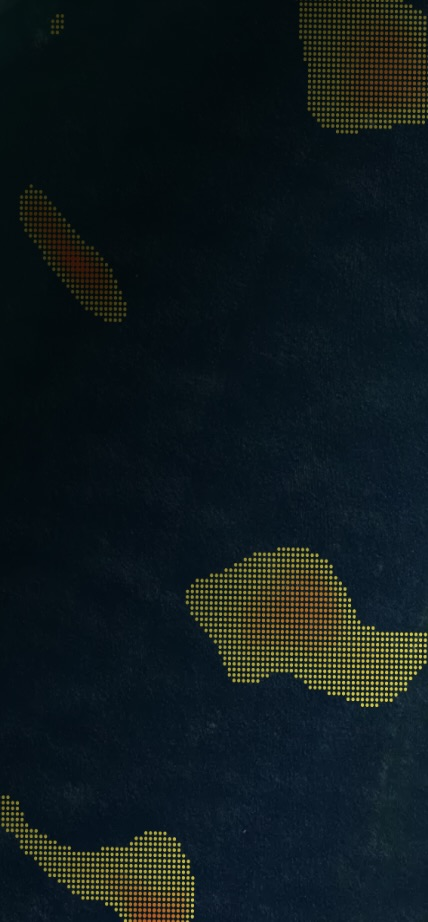
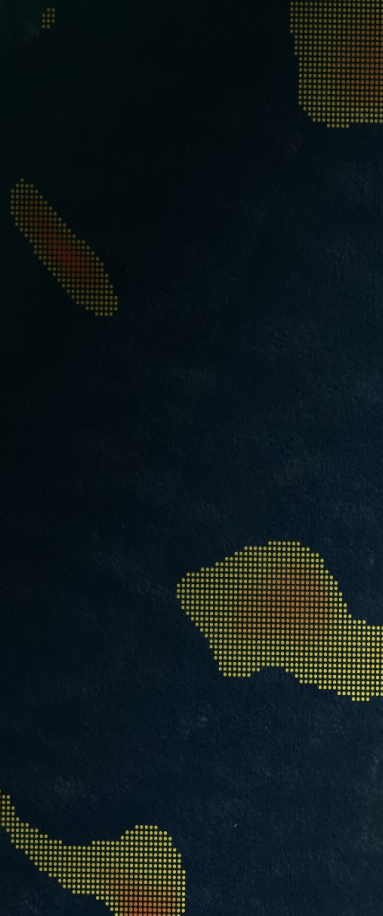
mobile styling

diff --git a/src/lib/sections/Prototype.svelte b/src/lib/sections/Prototype.svelte
@@ -16,28 +16,26 @@
 </script>
 
 {#if !isSmScreen}
-	<div class="bg-white w-full h-screen relative">
-		<div class="absolute w-1/3 top-40 right-20">
-			<h1 class="text-white text-3xl sm:text-3xl sm:mt-20" style="font-weight: 500">
-				OCEAN ECO WATCH PROTOTYPE
-			</h1>
-			<p class="text-white mt-10">
-				We've built a small prototype to detect marine debris on the coast of Durban located in
-				South Africa where a flood event on the 18th of April in 2019 washed out a lot of plastic.
-				We are using data from the sentinel-2 satellite taken six days post-event. Our prototype
-				highlights potential locations of floating plastic. Each point on the map corresponds to the
-				probability of present marine debris and represents an area spanning 10x10 m².
-			</p>
+	<div class="bg-white w-full h-full relative">
+		<div class="absolute w-1/2 top-40 right-0 mr-10 absolute top-1/2 transform -translate-y-1/2">
+			<div class="w-3/4">
+				<h1 class="text-white text-3xl sm:text-3xl sm:mt-20" style="font-weight: 500">OCEAN ECO WATCH PROTOTYPE</h1>
+				<p class="text-white mt-10">
+					We've built a small prototype to detect marine debris on the coast of Durban located in South Africa where a
+					flood event on the 18th of April in 2019 washed out a lot of plastic. We are using data from the sentinel-2
+					satellite taken six days post-event. Our prototype highlights potential locations of floating plastic. Each
+					point on the map corresponds to the probability of present marine debris and represents an area spanning 10x10
+					m².
+				</p>
 
-			<button
-				class="btn btn-xl bg-white mt-20"
-				on:click={() => goto('/map')}
-				on:keypress={() => goto('/map')}><h1>VIEW PROTORYPE</h1></button
-			>
+				<button class="btn btn-xl bg-white mt-20" on:click={() => goto('/map')} on:keypress={() => goto('/map')}
+					><h1 class="font-bold">VIEW PROTORYPE</h1></button
+				>
+			</div>
 		</div>
 		<img
 			src={prototypeHorizontal}
-			class="object-cover object-left w-full h-full"
+			class="max-h-48 max-h-[1000px] object-cover object-left object-bottom w-full h-full"
 			alt="screenshot of our prototype"
 		/>
 	</div>
@@ -46,21 +44,17 @@
 {#if isSmScreen}
 	<div class="h-screen w-full relative">
 		<div class="absolute top-0 left-0 z-50 px-5 pt-32">
-			<h1 class="text-white text-3xl text-center" style="font-weight: 500">
-				OCEAN ECO WATCH PROTOTYPE
-			</h1>
+			<h1 class="text-white text-3xl text-center" style="font-weight: 500">OCEAN ECO WATCH PROTOTYPE</h1>
 			<p class="text-white mt-10 text-center">
-				We've built a small prototype to detect marine debris on the coast of Durban located in
-				South Africa where a flood event on the 18th of April in 2019 washed out a lot of plastic.
-				We are using data from the sentinel-2 satellite taken six days post-event. Our prototype
-				highlights potential locations of floating plastic. Each point on the map corresponds to the
-				probability of present marine debris and represents an area spanning 10x10 m².
+				We've built a small prototype to detect marine debris on the coast of Durban located in South Africa where a
+				flood event on the 18th of April in 2019 washed out a lot of plastic. We are using data from the sentinel-2
+				satellite taken six days post-event. Our prototype highlights potential locations of floating plastic. Each
+				point on the map corresponds to the probability of present marine debris and represents an area spanning 10x10
+				m².
 			</p>
-			<div class="w-full flex flex-col items-center mt-20">
-				<button
-					class="btn btn-xl bg-white mt-20"
-					on:click={() => goto('/map')}
-					on:keypress={() => goto('/map')}><h1>VIEW PROTORYPE</h1></button
+			<div class="w-full flex flex-col items-center mt-10">
+				<button class="btn btn-xl bg-white" on:click={() => goto('/map')} on:keypress={() => goto('/map')}
+					><h1>VIEW PROTORYPE</h1></button
 				>
 			</div>
 		</div>
@@ -68,7 +62,7 @@
 		<img
 			src={prototypeVertical}
 			alt="screenshot of our prototype"
-			class="absolute object-cover w-full h-full z-0"
+			class="absolute object-cover w-full h-full z-0 brightness-50"
 		/>
 	</div>
 {/if}

diff --git a/src/lib/sections/Technology.svelte b/src/lib/sections/Technology.svelte
@@ -2,42 +2,35 @@
 	import graph from '$assets/images/graph.png';
 </script>
 
-<div
-	class="w-full h-screen sm:h-full bg-primary-500 flex sm:flex-col sm:px-5 sm:pt-20 pt-40 pb-40 pl-20 pr-20"
->
+<div class="w-full h-screen sm:h-full bg-primary-500 flex sm:flex-col sm:px-5 pt-40 sm:pt-320 pb-40 pl-20 pr-20">
 	<div class="flex flex-col w-2/5 sm:w-full h-full">
-		<h1 class="font-bold text-white text-3xl mb-10">HOW THE DETECTION WORKS</h1>
+		<h1 class="font-bold text-white text-3xl mb-10 sm:text-center">HOW THE DETECTION WORKS</h1>
 
-		<p class="text-white">
-			We primarily leverage Sentinel-2 imagery, accessible through SentinelHub, as our core data
-			source. This resource offers a remarkable spectral resolution, spanning 13 distinct bandwidths
-			from visible to infrared. Our approach is grounded in the latest open-source scientific
-			publications, which have shared their findings through open-source models. Within these
-			models, neural networks, notably the Unet++ model, excel at discerning the unique reflection
+		<p class="text-white sm:text-center">
+			We primarily leverage Sentinel-2 imagery, accessible through SentinelHub, as our core data source. This resource
+			offers a remarkable spectral resolution, spanning 13 distinct bandwidths from visible to infrared. Our approach is
+			grounded in the latest open-source scientific publications, which have shared their findings through open-source
+			models. Within these models, neural networks, notably the Unet++ model, excel at discerning the unique reflection
 			and absorption patterns of plastic and marine debris in contrast to water.
 		</p>
 	</div>
 	<div>
 		<div class="ml-40 sm:ml-0 sm:mt-20">
-			<img
-				src={graph}
-				alt="statistic that shows the increase of plastic in our oceans by year and weight"
-			/>
+			<img src={graph} alt="statistic that shows the increase of plastic in our oceans by year and weight" />
 			<div class="mt-5">
-				<div class="flex space-x-3 sm:mt-5">
-					<p class="text-white">Source:</p>
+				<p class="text-white sm:text-small">
+					Variations in remote sensing reflectance across different materials at various wavelengths.
+				</p>
+				<div class="flex space-x-3 sm:mt-3">
+					<p class="text-white sm:text-small">Source:</p>
 					<a
-						class="anchor text-white"
+						class="anchor text-white sm:text-small"
 						tabindex="0"
 						href="https://www.nature.com/articles/s41598-020-62298-z"
 					>
 						Finding Plastic Patches in Coastal Waters using Optical Satellite Data
 					</a>
 				</div>
-				<p class="text-white sm:mt-10">
-					Variations in remote sensing reflectance across different materials at various
-					wavelengths.
-				</p>
 			</div>
 		</div>
 	</div>

diff --git a/src/lib/sections/Problem.svelte b/src/lib/sections/Problem.svelte
@@ -4,24 +4,24 @@
 	</div>
 	<div class="w-4/5 flex md:flex-col sm:flex-col sm:space-y-20 md:space-y-10 justify-between mt-28 lg:pt-10">
 		<div class="w-1/4 sm:w-full md:w-full sm:pb-5">
-			<p class="text-white text-lg-p text-center">
-				<span class="text-tertiary-500 font-bold text-5xl">In 2050</span>
+			<p class="text-white text-center">
+				<span class="text-tertiary-500 font-bold text-5xl sm:text-4xl">In 2050</span>
 				<br class="mb-5" />
 				our oceans could hold more plastic than fish by weight
 			</p>
 		</div>
 
 		<div class="w-1/4 sm:w-full md:w-full">
-			<p class="text-white text-lg-p text-center sm:pb-5">
-				<span class="text-tertiary-500 font-bold text-5xl">450 years</span><br class="mb-5" />it takes to break down a
-				plastic bottle into microplastic particles.
+			<p class="text-white text-center sm:pb-5">
+				<span class="text-tertiary-500 font-bold sm:text-4xl">450 years</span><br class="mb-5" />it takes to break down
+				a plastic bottle into microplastic particles.
 			</p>
 		</div>
 
 		<div class="w-1/4 sm:w-full md:w-full">
-			<p class="text-white text-lg-p text-center sm:pb-5">
-				<span class="text-tertiary-500 font-bold text-5xl">$13 billion</span><br class="mb-5" />are the cost of annual
-				damage to the marine ecosystems caused by plastic pollution.
+			<p class="text-white text-center sm:pb-5">
+				<span class="text-tertiary-500 font-bold sm:text-4xl">$13 billion</span><br class="mb-5" />are the cost of
+				annual damage to the marine ecosystems caused by plastic pollution.
 			</p>
 		</div>
 	</div>

diff --git a/src/lib/sections/Team.svelte b/src/lib/sections/Team.svelte
@@ -51,7 +51,7 @@
 	}
 </script>
 
-<div class="bg-white hide-scrollbar flex flex-col items-center p-20">
+<div class="bg-white hide-scrollbar flex flex-col items-center p-20 sm:px-5">
 	<div class="w-full flex flex-col items-center mb-10">
 		<h1 class="text-3xl text-primary-500 pb-20" style="font-weight: 500">SEA THE TEAM</h1>
 	</div>
@@ -60,25 +60,15 @@
 		{#each teamMembers as member}
 			<div class="flex flex-col">
 				<div class="bg-team-card card w-[250px] h-[250px] relative overflow-hidden">
-					<img
-						class="w-full h-full object-cover"
-						src={member.image}
-						alt={`portrait of ${member.name}`}
-					/>
+					<img class="w-full h-full object-cover" src={member.image} alt={`portrait of ${member.name}`} />
 					<div class="left-4 space-x-2 absolute left-2 bottom-2">
 						{#if member.links.github}
-							<button
-								type="button"
-								class="btn-icon bg-white"
-								on:click={() => redirect(member.links.github)}
+							<button type="button" class="btn-icon bg-white" on:click={() => redirect(member.links.github)}
 								><img alt="github" src={githubIcon} /></button
 							>
 						{/if}
 						{#if member.links.linkedin}
-							<button
-								type="button"
-								class="btn-icon bg-white"
-								on:click={() => redirect(member.links.linkedin)}
+							<button type="button" class="btn-icon bg-white" on:click={() => redirect(member.links.linkedin)}
 								><img alt="linkedin" src={linkedinIcon} /></button
 							>
 						{/if}

diff --git a/src/lib/sections/Contact.svelte b/src/lib/sections/Contact.svelte
@@ -2,26 +2,26 @@
 	import seaturtle from '$assets/images/seaturtle.png';
 </script>
 
-<div class="w-full bg-primary-500 p-10 sm:px-5 pt-28 sm:pt-20">
+<div class="w-full bg-primary-500 p-10 sm:px-5 pt-28">
 	<div class="flex sm:flex-col">
 		<div class="w-1/2 sm:w-full">
-			<h1 class="text-3xl text-white pb-10" style="font-weight: 500">
+			<h1 class="text-3xl text-white pb-20 sm:text-center" style="font-weight: 500">
 				Get our marine debris analysis of any coastal region
 			</h1>
-			<p class="text-white mt-5">
-				Interested in our data? We can provide you with a detailed analysis of any coastal region in
-				the world from 2014 to the present.
+			<p class="text-white mt-5 sm:text-center">
+				Interested in our data? We can provide you with a detailed analysis of any coastal region in the world from 2014
+				to the present.
 			</p>
 
-			<p class="text-tertiary-500 mt-10" style="font-weight: 500">contact@oceanecowatch.org</p>
+			<p class="text-tertiary-500 mt-20 sm:text-center" style="font-weight: 500">contact@oceanecowatch.org</p>
 		</div>
 
-		<div class="w-1/2 sm:w-full flex flex-col items-center">
+		<div class="w-1/2 sm:w-full flex flex-col items-center mt-10">
 			<img class="" src={seaturtle} alt="a seaturle" />
 		</div>
 	</div>
 
-	<div class="flex flex-col items-center mt-20">
+	<div class="flex flex-col items-center mt-20 sm:mt-10">
 		<a class="anchor text-white" href="/impressum"><p class="font-bold">Imprint</p></a>
 	</div>
 </div>

diff --git a/src/lib/sections/Mitigation.svelte b/src/lib/sections/Mitigation.svelte
@@ -4,7 +4,7 @@
 	import statistic from '$assets/images/statistic.png';
 </script>
 
-<div class="w-full h-full bg-white flex sm:flex-col sm:px-5 sm:pt-10 pt-40 pb-40 px-20">
+<div class="w-full h-full bg-white flex sm:flex-col sm:px-5 sm:pt-20 pt-40 pb-40 px-20">
 	<div class="flex flex-col w-2/5 sm:w-full h-full">
 		<div class="pl-24">
 			<h1 class="font-bold text-3xl mb-10">ACTIVE MITIGATION</h1>
@@ -20,7 +20,7 @@
 						</div>
 					</span>
 					<span class="flex-auto">
-						<p class="text-lg-p">
+						<p class="">
 							Shocking as it may be, up to <span class="font-bold">80% of all marine debris consists of plastic</span> an
 							insidious invader of our planet’s most vital habitats.
 						</p>
@@ -34,7 +34,7 @@
 						</div></span
 					>
 					<span class="flex-auto"
-						><p class="text-lg-p">
+						><p class="">
 							Disturbingly, <span class="font-bold"
 								>the bulk of this plastic threat (80%) lies in our coastal zones</span
 							>
@@ -50,7 +50,7 @@
 						</div></span
 					>
 					<span class="flex-auto"
-						><p class="text-lg-p">
+						><p class="">
 							The time for change is now, we want to help cleanup NGOs to make their operations more effective with
 							accurate, real-time data on floating plastic debris in coastal regions, and thus play a small part in the
 							fight against plastic pollution.

diff --git a/src/lib/sections/Hero.svelte b/src/lib/sections/Hero.svelte
@@ -5,7 +5,7 @@
 
 <div class="bg-black lg:p-40 sm:p-0 min-h-screen w-full relative flex items-center">
 	<img
-		class="object-cover sm:object-top absolute top-0 left-0 z-0 w-full h-full"
+		class="object-cover sm:object-top absolute top-0 left-0 z-0 w-full h-full sm:brightness-50"
 		src={earth}
 		alt="globe from space"
 	/>
@@ -18,7 +18,11 @@
 			REAL-TIME MAPPING OF PRESENT <br />MARINE DEBRIS BY LEVERAGING <br />SATELLITE IMAGERY
 		</h1>
 
-		<button class="btn h-[90px] w-[320px] sm:btn h-[75px] sm:w-[270px] bg-white mt-20 sm:mt-20" style="border-radius: 28px;" on:click={() => goto('/map')}>
+		<button
+			class="btn h-[90px] w-[320px] sm:btn h-[75px] sm:w-[270px] bg-white mt-20 sm:mt-20"
+			style="border-radius: 28px;"
+			on:click={() => goto('/map')}
+		>
 			<h1 class="text-black text-3xl sm:text-2xl font-bold">VIEW PROTOTYPE</h1>
 		</button>
 	</div>

diff --git a/src/lib/sections/Audience.svelte b/src/lib/sections/Audience.svelte
@@ -28,7 +28,7 @@
 	];
 </script>
 
-<div class="w-full bg-primary-500 flex flex-col items-center lg:py-32 md:py-48 sm:py-32 md:p-30 sm:px-5">
+<div class="w-full bg-primary-500 flex flex-col items-center lg:py-32 md:py-48 sm:py-24 md:p-30 sm:px-5">
 	<div class="sm:w-full lg:w-4/5 bg-primary-500 pl-20 pr-20 flex sm:flex-col justify-between">
 		{#each sections as section}
 			<div class="flex flex-col items-center p-5 sm:mb-20">

diff --git a/tailwind.config.ts b/tailwind.config.ts
@@ -42,6 +42,7 @@ export default {
 			},
 			fontSize: {
 				'lg-p': '1.5rem', // Adjust the font size value as needed
+				'small': '0.8rem'
 			  },
 		}
 	},
